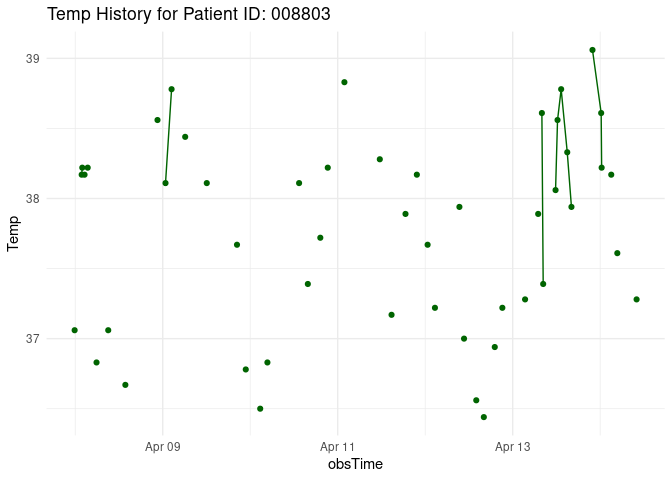
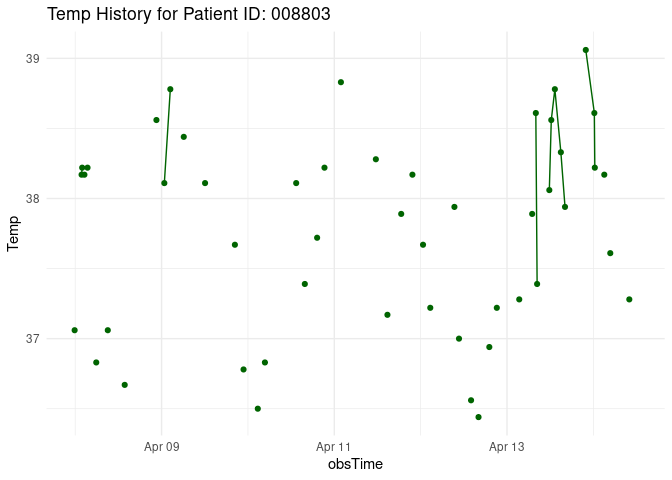
Updated report

diff --git a/sepsis_v2.md b/sepsis_v2.md
@@ -10,7 +10,7 @@ Sepsis Assignment
 
 #### The date and time of the report
 
-    Hello! The last time the report was run: 2023-04-14 11:12:57
+    Hello! The last time the report was run: 2023-04-14 12:25:46
 
 #### Recent heart rate, temperature, and respiratory rate for patients who currently have sepsis
 
@@ -32,7 +32,7 @@ table1
 |:-----------|-----------:|------:|------------:|:--------------------|
 | 000714     |         84 |    NA |          19 | 2023-04-08 17:48:46 |
 | 001948     |         84 |    NA |          25 | 2023-04-08 22:43:12 |
-| 008803     |         74 | 37.28 |          18 | 2023-04-14 09:59:22 |
+| 008803     |         72 |    NA |          17 | 2023-04-14 12:00:50 |
 | 009433     |         94 | 38.44 |          34 | 2023-04-10 09:36:59 |
 
 #### Plots for all patients who have sepsis that show the complete history of their heart rate, temperature, and respiratory rate during their time in the ICU.
@@ -215,7 +215,7 @@ mutate(prev_HR = lag(HR, order_by = obsTime),
 | 008574    |        NA |          NA |          NA |
 | 008614    |        -1 |          NA |           3 |
 | 008614    |        NA |          NA |          NA |
-| 008803    |        -5 |          NA |          -2 |
+| 008803    |        -2 |          NA |          -1 |
 | 008803    |        NA |          NA |          NA |
 | 008882    |        -2 |          NA |           1 |
 | 008882    |        NA |          NA |          NA |
